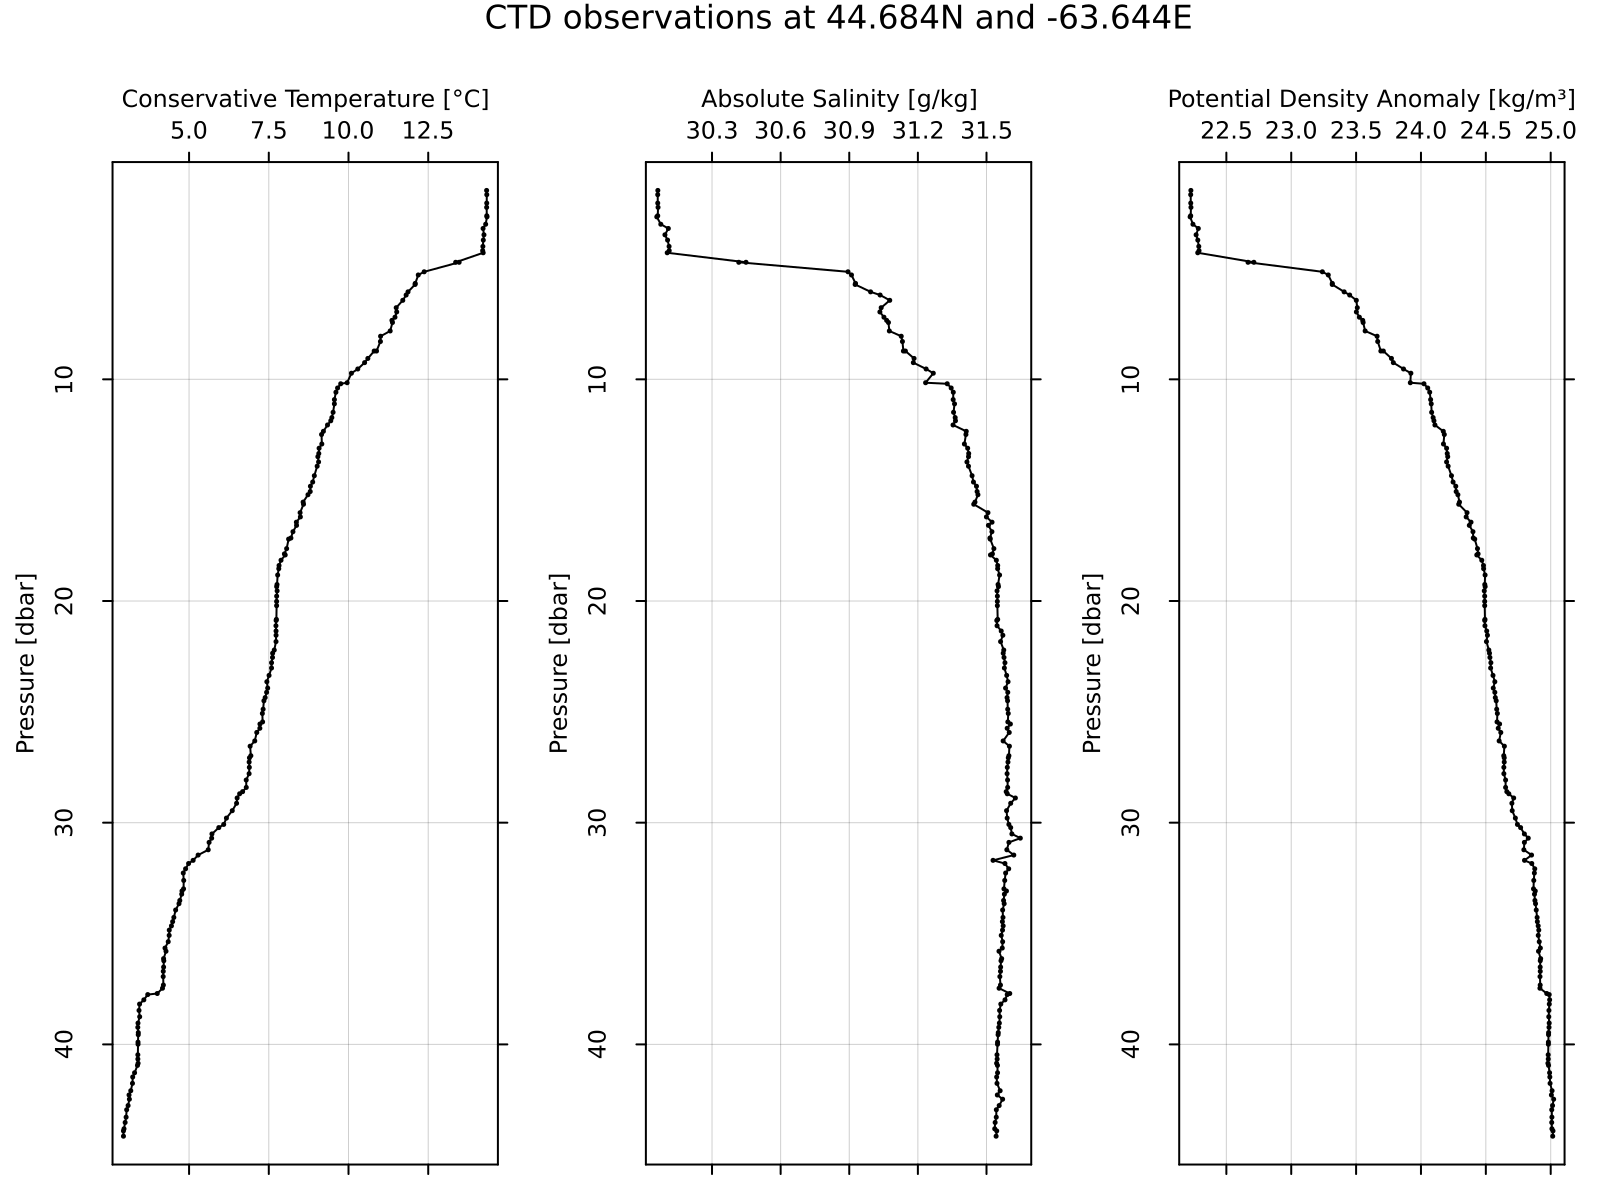
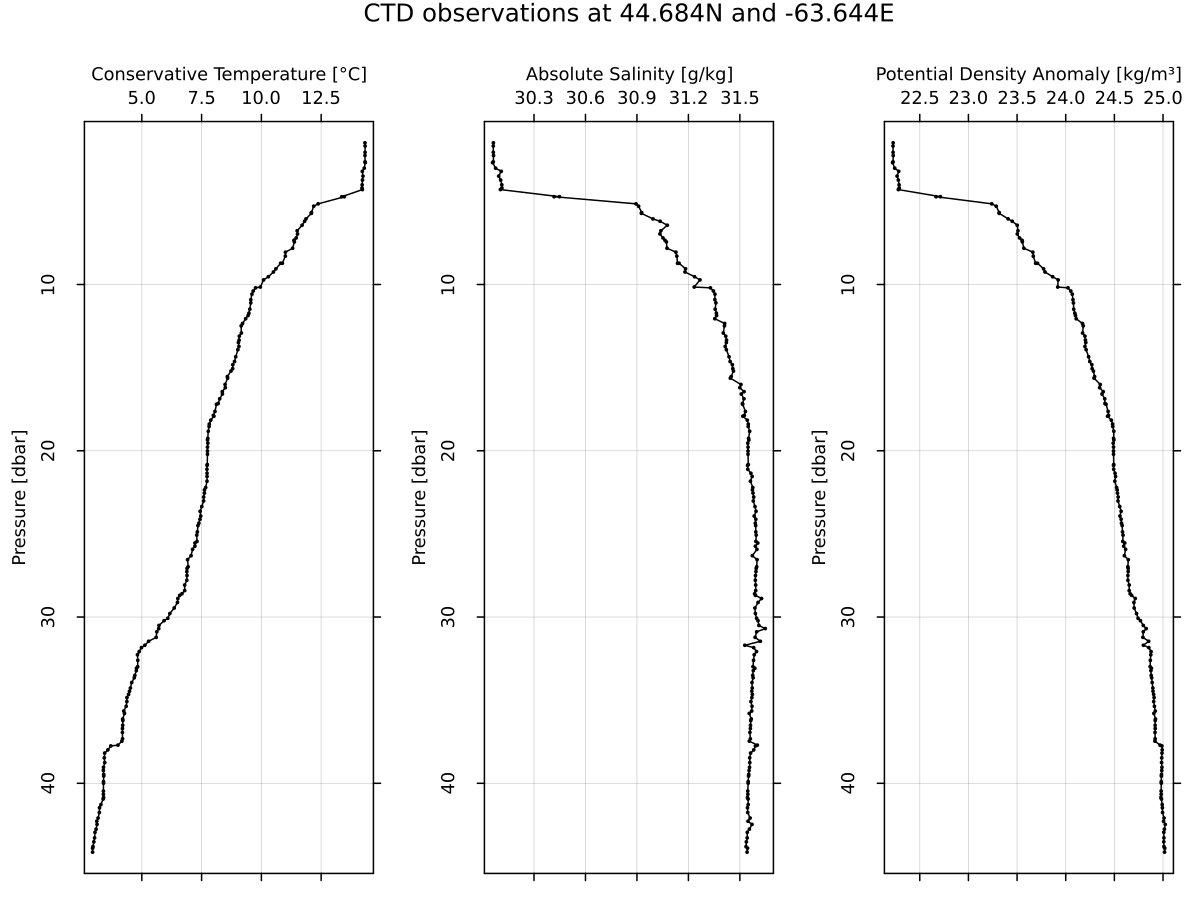
Does this slim down examples.html?

diff --git a/docs/src/examples.md b/docs/src/examples.md
@@ -237,7 +237,7 @@ topo = read_topography(topo_file);
 p1 = plot_topography(topo, domain=:both);
 p2 = plot_topography(topo, domain=:sea);
 p3 = plot_topography(topo, domain=:land);
-plot(p1, p2, p3, layout=(1, 3), size=(800, 200), dpi=300)
+plot(p1, p2, p3, layout=(1, 3), size=(800, 200), dpi=200)
 savefig("topography.png")
 ```
 
@@ -276,7 +276,7 @@ p3 = plot_profile(ctd; which="sigma0");
 title = @sprintf("CTD observations at %.3fN and %.3fE",
     ctd["latitude"], ctd["longitude"])
 plot(p1, p2, p3, layout=(1, 3), size=(800, 600), margin=0.25cm,
-    dpi=200, plot_title=title, plot_titlefontsize=11)
+    dpi=150, plot_title=title, plot_titlefontsize=11)
 savefig("ctd_profiles.png")
 ```
 
